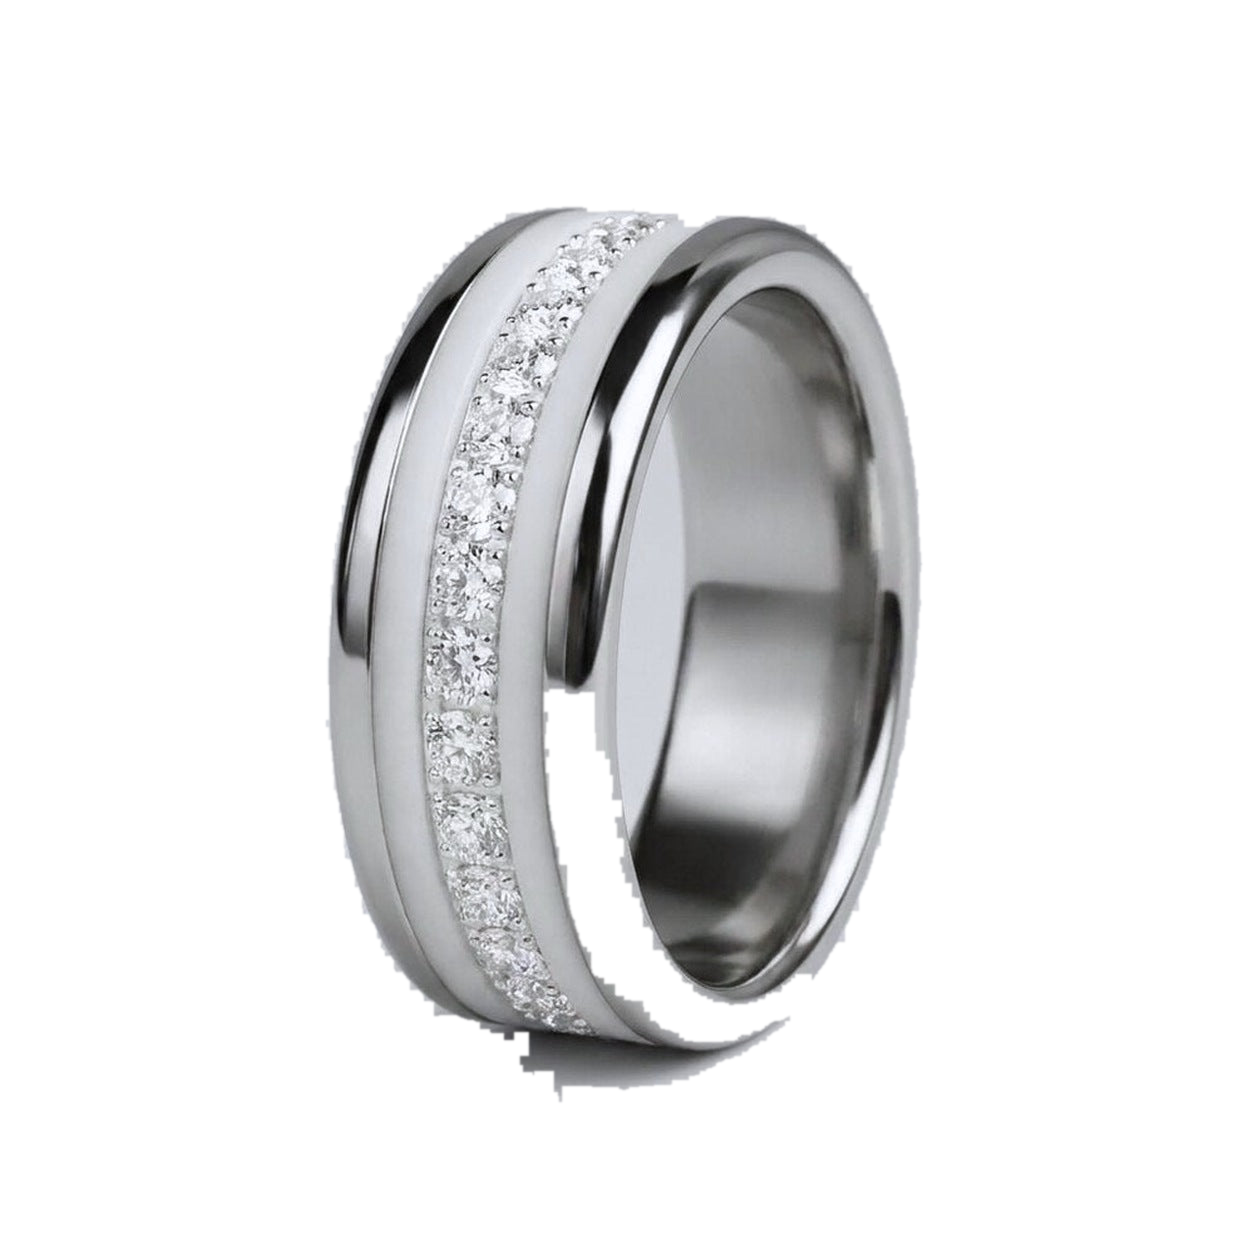
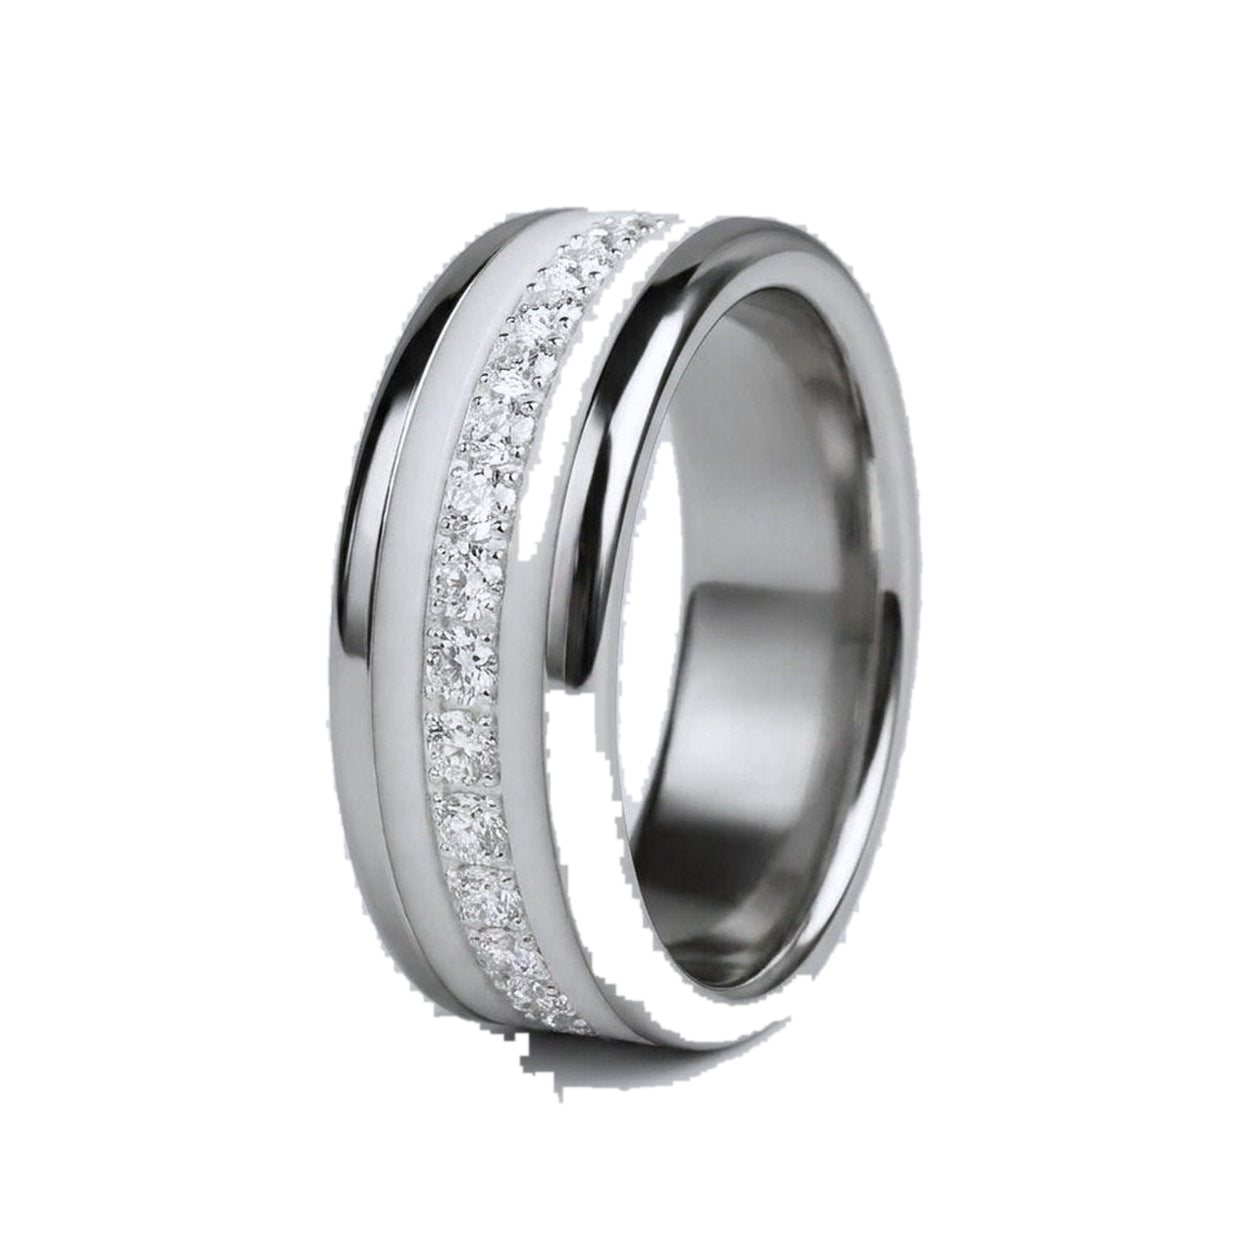
essayage: camera arriere, le doigt passe devant l'arriere de la bague, reglage de position

Changed region(s): [[0.4665, 0.3421, 0.5598, 0.6531], [0.4043, 0.1555, 0.5598, 0.4665]]

diff --git a/app/essayage/route.ts b/app/essayage/route.ts
@@ -15,7 +15,7 @@ const PAGE = String.raw`<!doctype html>
 html,body{margin:0;padding:0;height:100%;background:#0E0E0E;color:#F4F3F1;overflow:hidden}
 body{font-family:'Jost','Helvetica Neue',Arial,sans-serif;-webkit-font-smoothing:antialiased}
 #scene{position:fixed;inset:0;background:#000}
-#cam{position:absolute;inset:0;width:100%;height:100%;object-fit:cover;transform:scaleX(-1)}
+#cam{position:absolute;inset:0;width:100%;height:100%;object-fit:cover}
 #dessin{position:absolute;inset:0;width:100%;height:100%}
 .haut{position:absolute;top:0;left:0;right:0;padding:calc(14px + env(safe-area-inset-top,0px)) 18px 14px;
   background:linear-gradient(180deg,rgba(0,0,0,.55),rgba(0,0,0,0));text-align:center;pointer-events:none}
@@ -41,10 +41,12 @@ body{font-family:'Jost','Helvetica Neue',Arial,sans-serif;-webkit-font-smoothing
   <canvas id="dessin"></canvas>
   <div class="haut"><div class="k">mood</div><h1>J'essaie ma bague</h1></div>
   <div class="bas">
-    <div class="msg" id="msg">Montre ta main, paume vers toi.</div>
+    <div class="msg" id="msg">Montre ta main devant la caméra.</div>
     <div class="reglages">
       <label for="taille">Taille</label>
       <input id="taille" type="range" min="60" max="190" value="118">
+      <label for="haut">Position</label>
+      <input id="haut" type="range" min="10" max="70" value="38">
     </div>
   </div>
 </div>
@@ -63,6 +65,7 @@ const cv = document.getElementById('dessin');
 const cx = cv.getContext('2d');
 const msg = document.getElementById('msg');
 const taille = document.getElementById('taille');
+const haut = document.getElementById('haut');
 
 const bague = new Image();
 bague.src = '/essayage/bague.png';
@@ -81,7 +84,7 @@ document.getElementById('go').addEventListener('click', async () => {
   d.querySelector('button').textContent = 'Un instant…';
   try {
     const flux = await navigator.mediaDevices.getUserMedia({
-      video: { facingMode: 'user', width: { ideal: 1280 }, height: { ideal: 720 } }, audio: false
+      video: { facingMode: { ideal: 'environment' }, width: { ideal: 1280 }, height: { ideal: 720 } }, audio: false
     });
     video.srcObject = flux;
     await video.play();
@@ -106,7 +109,7 @@ function place(x, y){
   const e = Math.max(cw / vw, ch / vh);
   const dw = vw * e, dh = vh * e;
   const ox = (cw - dw) / 2, oy = (ch - dh) / 2;
-  return [ox + (1 - x) * dw, oy + y * dh]; // 1-x : l'image est en miroir
+  return [ox + x * dw, oy + y * dh];
 }
 
 let dernier = -1;
@@ -122,7 +125,7 @@ function boucle(t){
   cx.clearRect(0, 0, cv.width, cv.height);
 
   if (!res.landmarks || !res.landmarks.length) {
-    msg.textContent = "Montre ta main, paume vers toi.";
+    msg.textContent = "Montre ta main devant la caméra.";
     return;
   }
   msg.textContent = "Tourne doucement la main pour voir la bague sous tous les angles.";
@@ -137,8 +140,9 @@ function boucle(t){
   const [mx, my] = place(majB.x, majB.y);
 
   // la bague se pose entre la base et le pli, un peu au-dessus de la base
-  const cxp = bx + (px - bx) * 0.38;
-  const cyp = by + (py - by) * 0.38;
+  const f = haut.value / 100;
+  const cxp = bx + (px - bx) * f;
+  const cyp = by + (py - by) * f;
 
   // largeur du doigt estimee par l'ecart entre annulaire et majeur
   const ecart = Math.hypot(mx - bx, my - by);
@@ -149,13 +153,32 @@ function boucle(t){
   if (bague.complete && bague.naturalWidth) {
     const ratio = bague.naturalHeight / bague.naturalWidth;
     const w = largeur, h = w * ratio;
+
+    // 1 — la bague
     cx.save();
     cx.translate(cxp, cyp);
     cx.rotate(angle);
-    cx.shadowColor = 'rgba(0,0,0,.45)';
-    cx.shadowBlur = w * 0.06;
-    cx.shadowOffsetY = w * 0.02;
+    cx.shadowColor = 'rgba(0,0,0,.4)';
+    cx.shadowBlur = w * 0.05;
+    cx.shadowOffsetY = w * 0.015;
     cx.drawImage(bague, -w / 2, -h / 2, w, h);
+    cx.restore();
+
+    // 2 — le doigt repasse par-dessus la moitie de la bague qui passe derriere lui
+    const vw = video.videoWidth, vh = video.videoHeight;
+    const ech = Math.max(cv.width / vw, cv.height / vh);
+    const dw2 = vw * ech, dh2 = vh * ech;
+    const ox2 = (cv.width - dw2) / 2, oy2 = (cv.height - dh2) / 2;
+    const doigt = ecart * 0.62;        // largeur du doigt
+    cx.save();
+    cx.translate(cxp, cyp);
+    cx.rotate(angle);
+    cx.beginPath();
+    cx.rect(-doigt / 2, -h * 0.75, doigt, h * 0.72);   // la bande du doigt, cote main
+    cx.clip();
+    cx.rotate(-angle);
+    cx.translate(-cxp, -cyp);
+    cx.drawImage(video, ox2, oy2, dw2, dh2);
     cx.restore();
   }
 }
